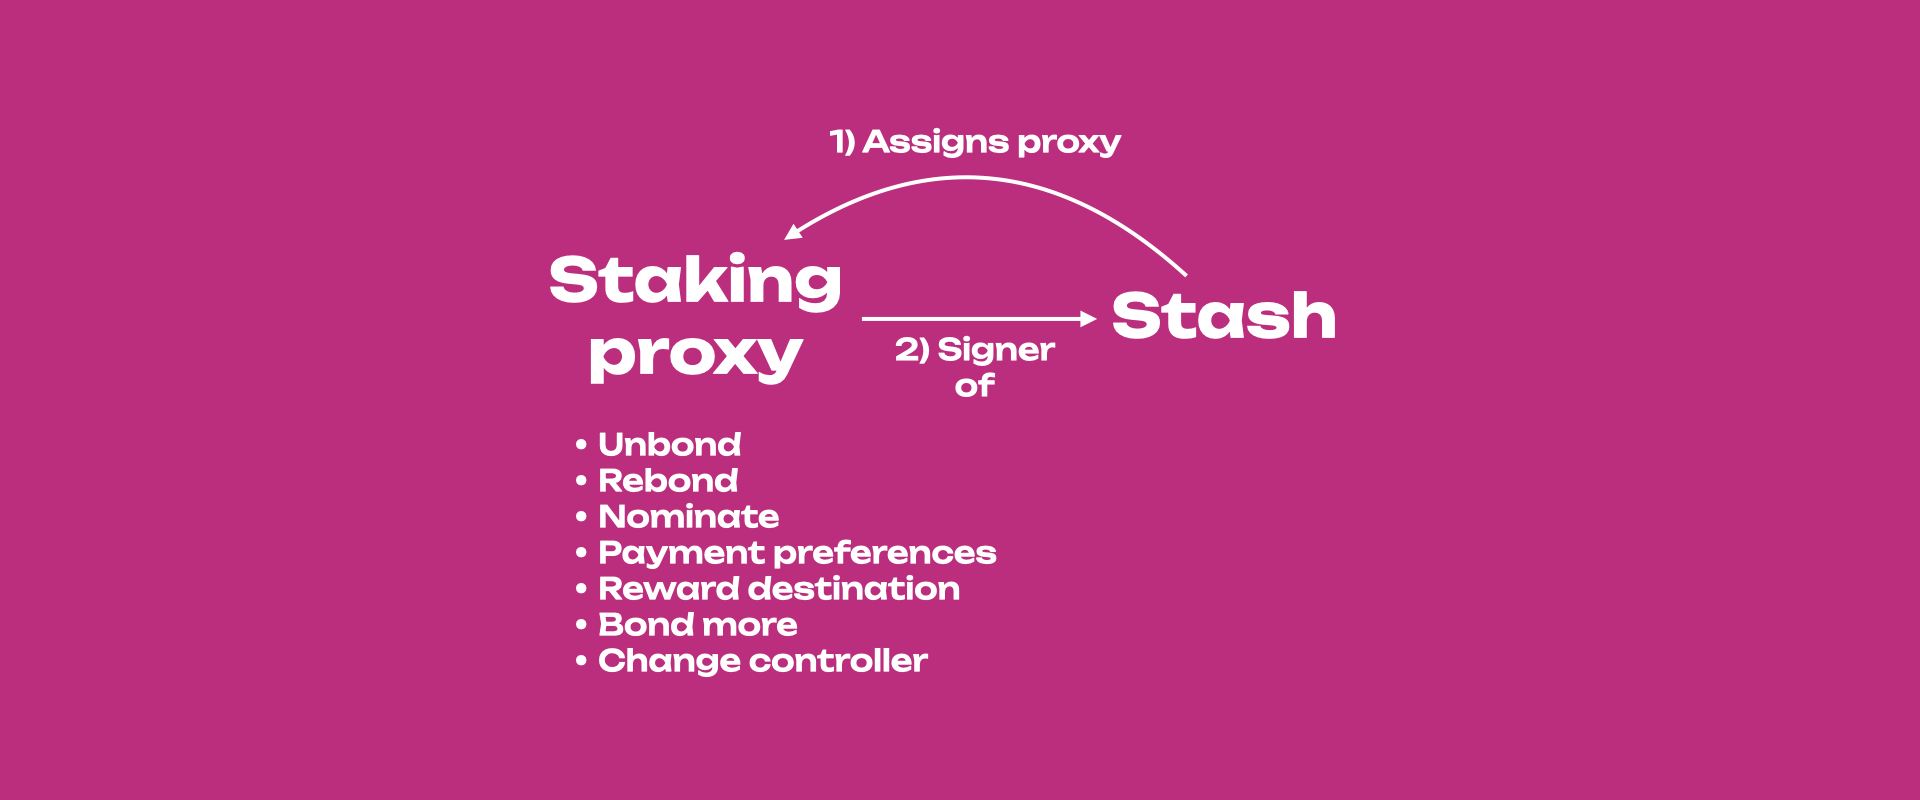
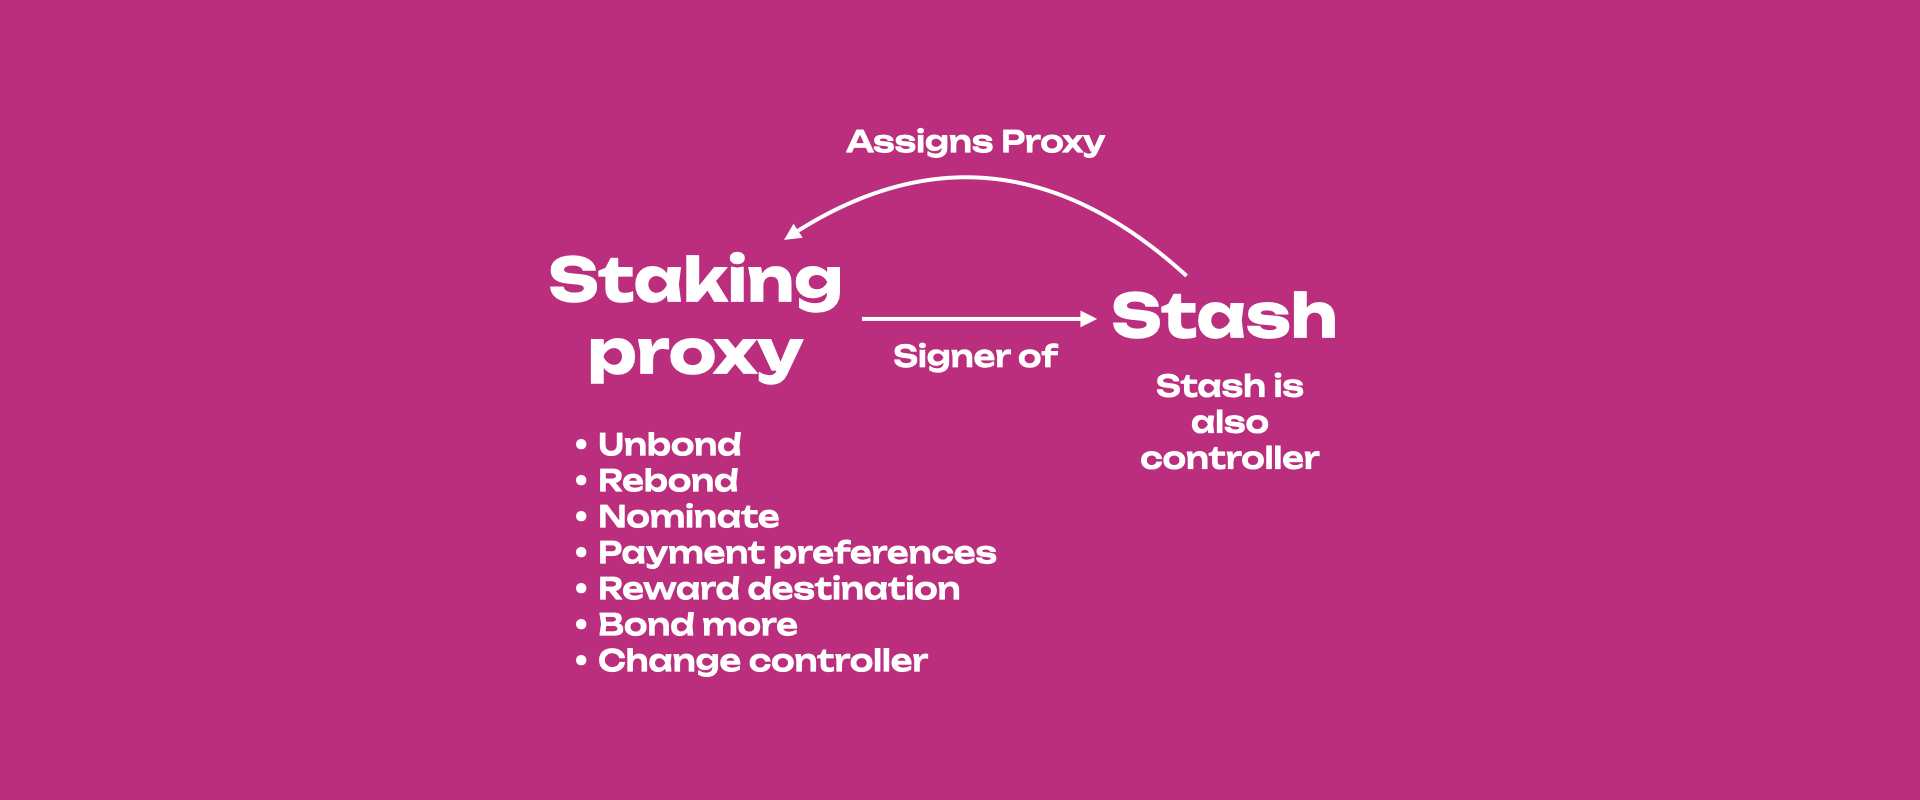
Added new Figures with descriptions

Changed region(s): [[0.5938, 0.4688, 0.6875, 0.5938], [0.4688, 0.4062, 0.5625, 0.5], [0.4375, 0.1562, 0.5938, 0.2188]]

diff --git a/docs/learn/learn-staking-advanced.md b/docs/learn/learn-staking-advanced.md
@@ -49,17 +49,29 @@ made to specific [**pallets**](#pallets-and-extrinsics) on behalf of the proxied
 thus the possibility to create staking proxy accounts that can be used to sign only extrinsic calls
 to staking, session and utility pallets.
 
-Usually with the stash-controller setup the stash still needs to sign for bonding more funds and change the controller. With a staking proxy the stash account even more isolated than using 
-a controller account since one can bond more funds and change the controller using the staking proxy account. This does not necessarily mean that the staking proxy can sign for all staking-related transactions. Below we show two main configurations that affects the permissions of a staking proxy.
+![stash-controller](../assets/stash-controller.png)
+
+Usually with the stash-controller setup the stash still needs to sign for bonding more funds and
+change the controller (see figure above). With a staking proxy the stash account even more isolated
+than using a controller account since one can bond more funds and change the controller using the
+staking proxy account. This does not necessarily mean that the staking proxy can sign for all
+staking-related transactions. Below we show two main configurations that affects the permissions of
+a staking proxy.
 
 ### Stash is not Controller
 
-### Stash is also Controller 
+If the stash and controller are different accounts, the staking proxy will just be used to bond more funds and change the controller.
 
-![staking](../assets/stash-stakingProxy.png)
+![stash-controller-stakingProxy](../assets/stash-controller-stakingProxy.png)
 
-Note that it is not necessary to have a controller, if you have a staking proxy: the stash can also
-be the controller. It is important to remember that actions that can be performed by the proxy
+### Stash is also Controller
+
+It is not necessary to have a controller, if you have a staking proxy: the stash can also
+be the controller. In this case the staking proxy will be used to sign all staking-relate transactions.
+
+![stash-stakingProxy](../assets/stash-stakingProxy.png)
+
+It is important to remember that actions that can be performed by the proxy
 accounts are limited, and in the case of staking proxy, extrinsic calls to the balances pallet
 cannot be signed. This means it is not possible to do balance transfers on the proxied account
 through a staking proxy.
